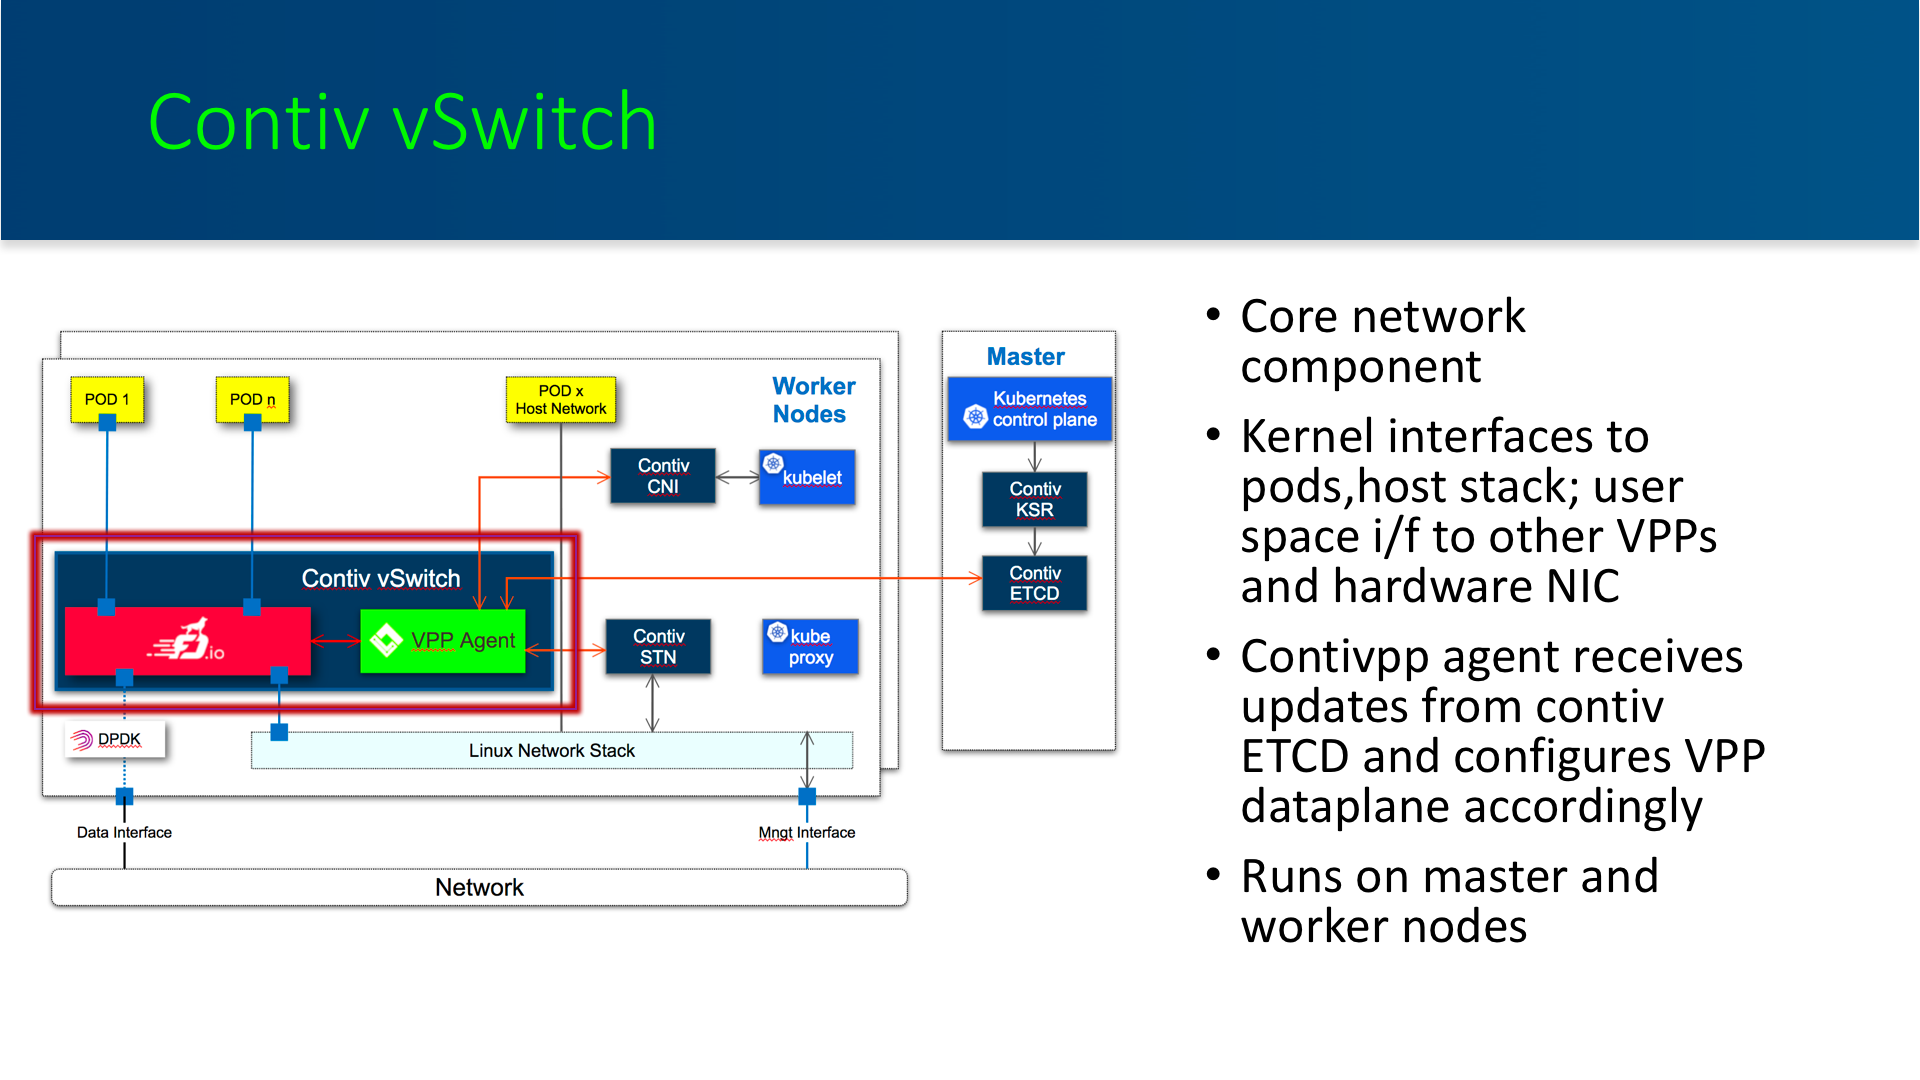
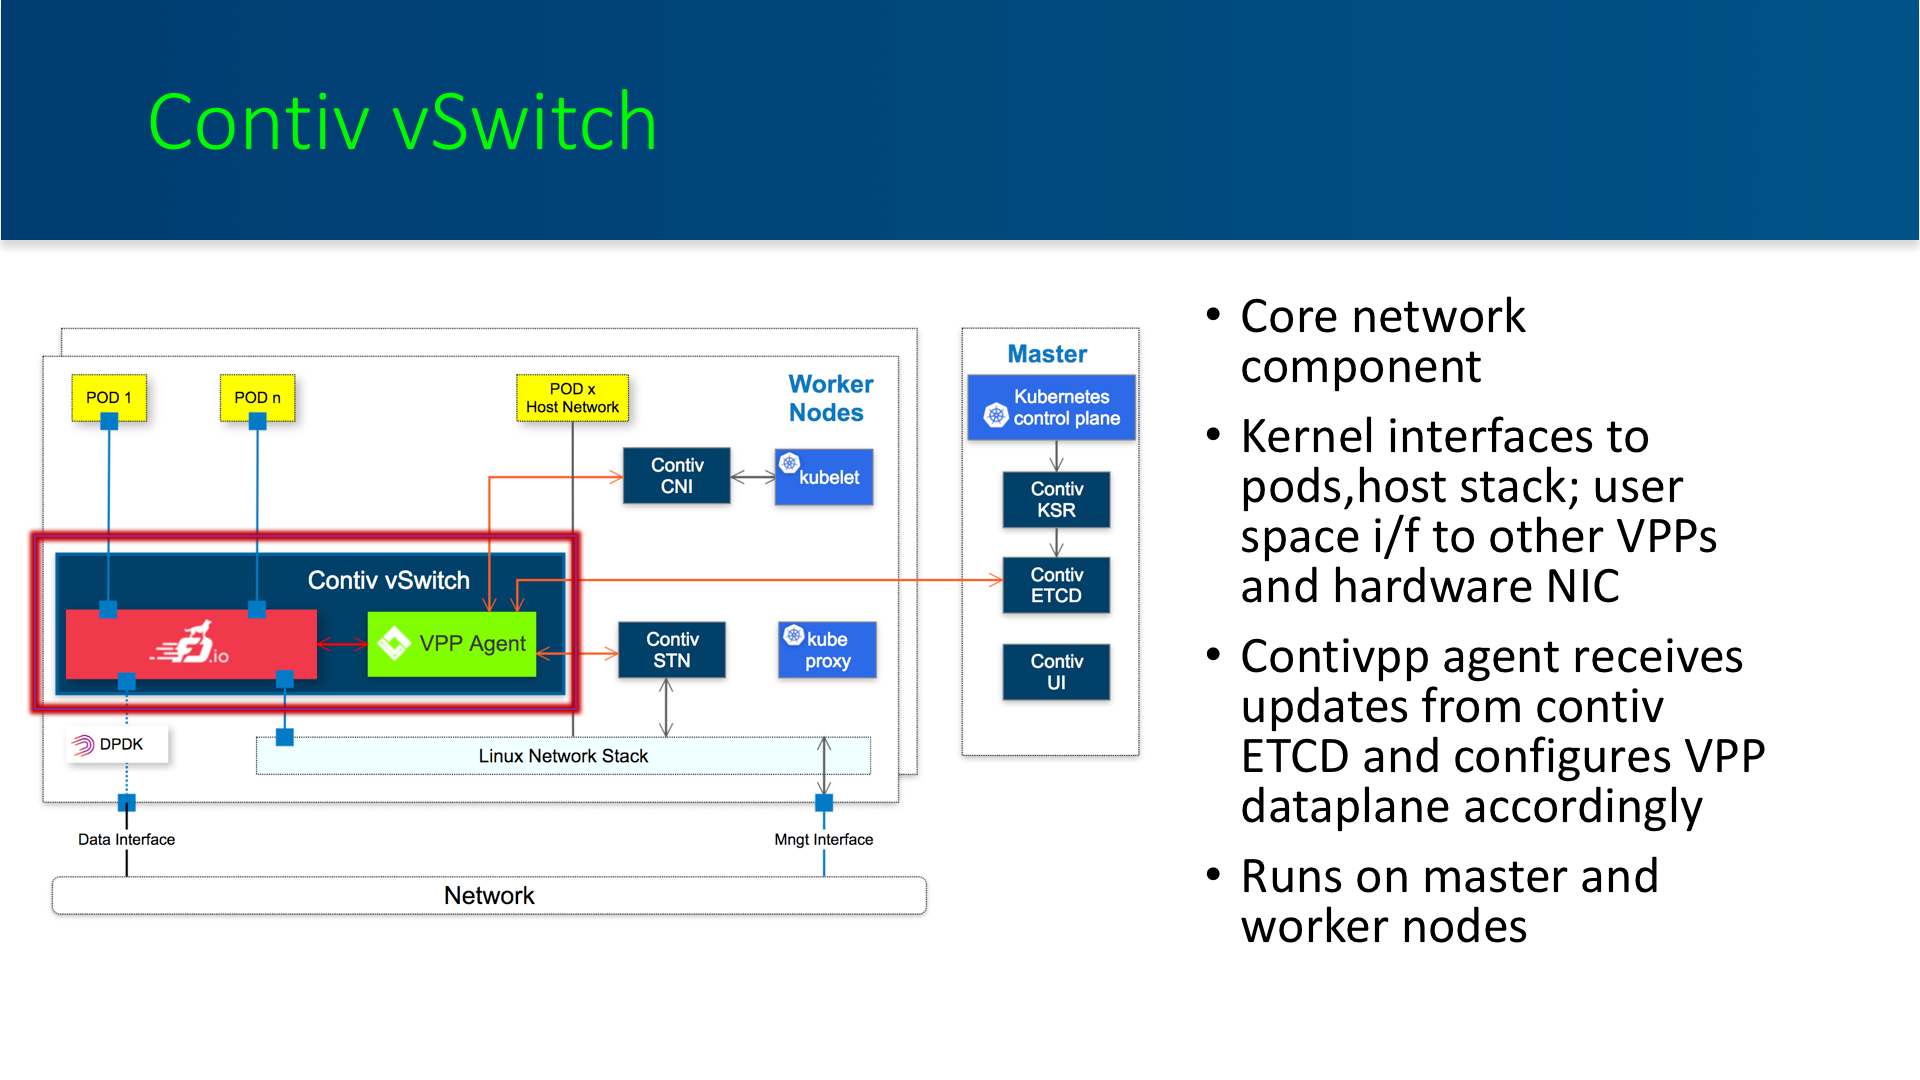
updated presentation deck

Changed region(s): [[0.0, 0.3056, 0.5938, 0.8556]]

diff --git a/content/docs/architecture/contiv-vpp-arch.md b/content/docs/architecture/contiv-vpp-arch.md
@@ -5,8 +5,6 @@ summary = "Contivpp.io Architecture"
 +++
 
 
-<span style="color:red">**Contivpp.io V2 Update!!**</span>
-
 ## Architecture
 
 contivpp.io consists of several components, each of them packed and shipped as
@@ -101,8 +99,10 @@ the VPP and configured with the same IP address on VPP, as well as
 on the host-VPP interconnect TAP interface, as it had in the host before it. 
 For more information on STN setup, read the [Single NIC Setup README](https://github.com/contiv/vpp/blob/master/docs/SINGLE_NIC_SETUP.md).
 
+
 ### Contivpp UI
 Contivpp UI is composed of two components. The first is a customized GUI enabling the user to display the k8s cluster including the contivpp.io system pods. It also allows access to the configuration (e.g. IPAM), k8s, contivpp and namespace and k8s services mapped to contiv vswitches. The other component is a proxy providing REST APIs to the front-end GUI and per-vswitch APIs to the contiv vswitches deployed in the cluster. The contivpp UI is deployed as a docker container and is optional both in the production and demo systems.
+
 
 ### Contivpp Flow
 

diff --git a/content/docs/concepts/what-is-contivpp-deck.md b/content/docs/concepts/what-is-contivpp-deck.md
@@ -9,8 +9,6 @@ weight = "2"
 
 ![contivpp.io Architecture](/img/what-is-contiv-vpp/slides/Slide01.png)
 
-<span style="color:red">**V2 Update Coming Shortly**</span>
-
 ## Topics Discussed
 
 * Baseline Concepts
@@ -220,6 +218,17 @@ It includes a management/control agent for VPP and a Service Function Chain (SFC
 <br/>
 <br/>
 
+![contivpp.io slide](/img/what-is-contiv-vpp/slides/Slide17a.png)
+
+## Contiv UI
+
+
+<br/>
+<br/>
+<br/>
+<br/>
+
+
 ![contivpp.io slide](/img/what-is-contiv-vpp/slides/Slide18.png)
 
 ## Topolopgy Graph of a 3 x Node Contivpp Network
@@ -418,7 +427,7 @@ It includes a management/control agent for VPP and a Service Function Chain (SFC
 
 
 
-![contivpp.io slide](/img/what-is-contiv-vpp/slides/contivpp-contiv-netctl.png)
+![contivpp.io slide](/img/what-is-contiv-vpp/slides/contivpp-io-v2-contiv-netctl2.png)
 
 <br/>
 <br/>
